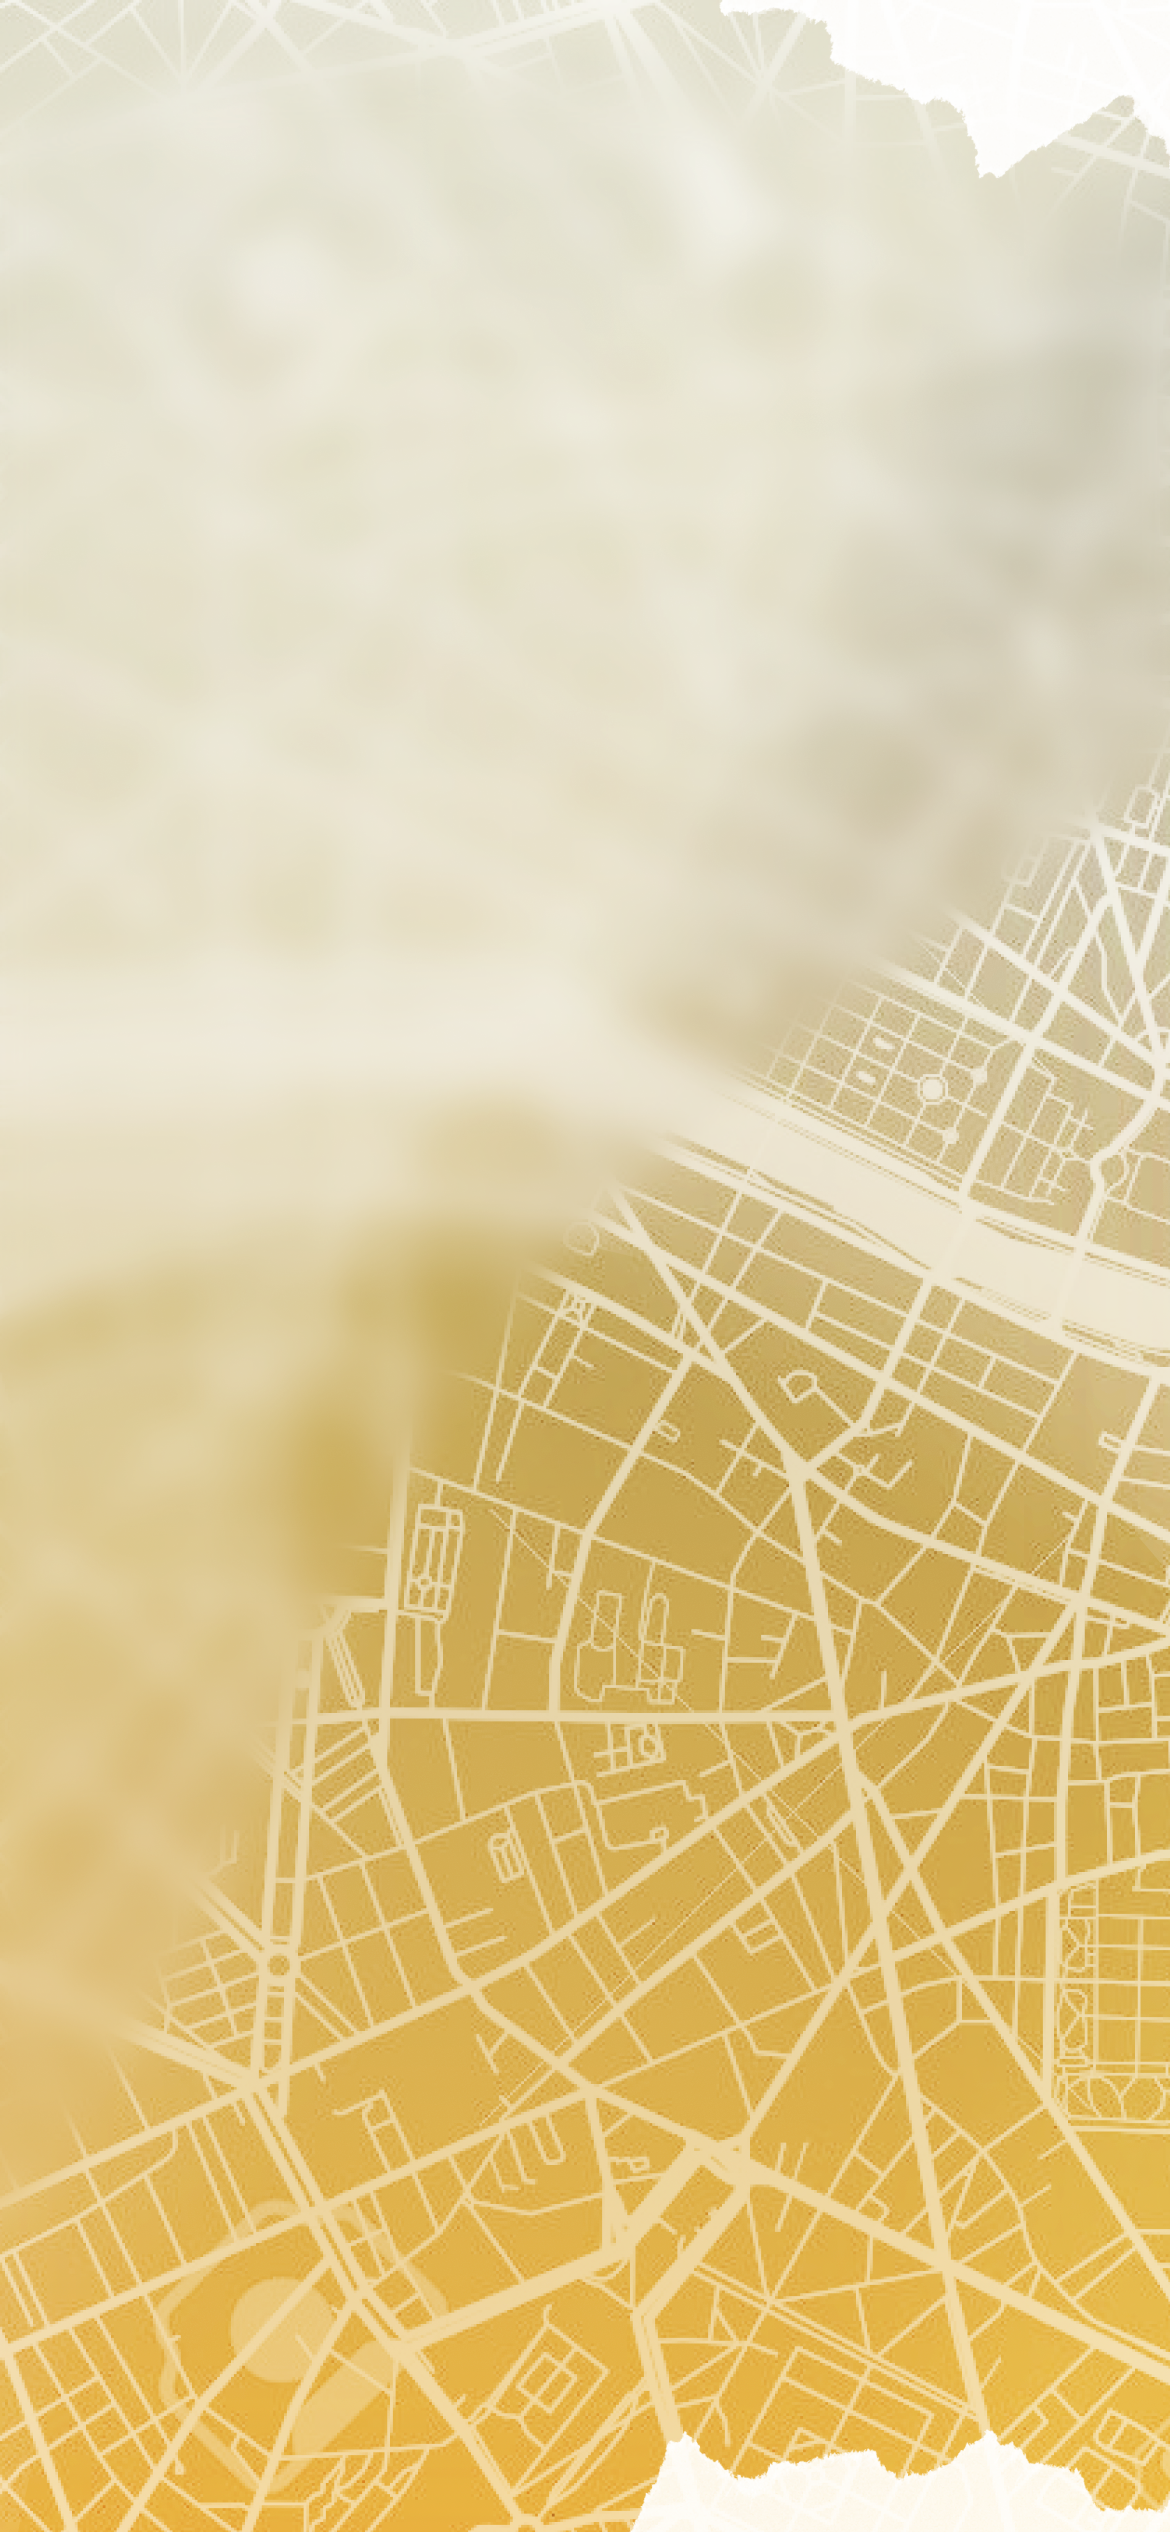
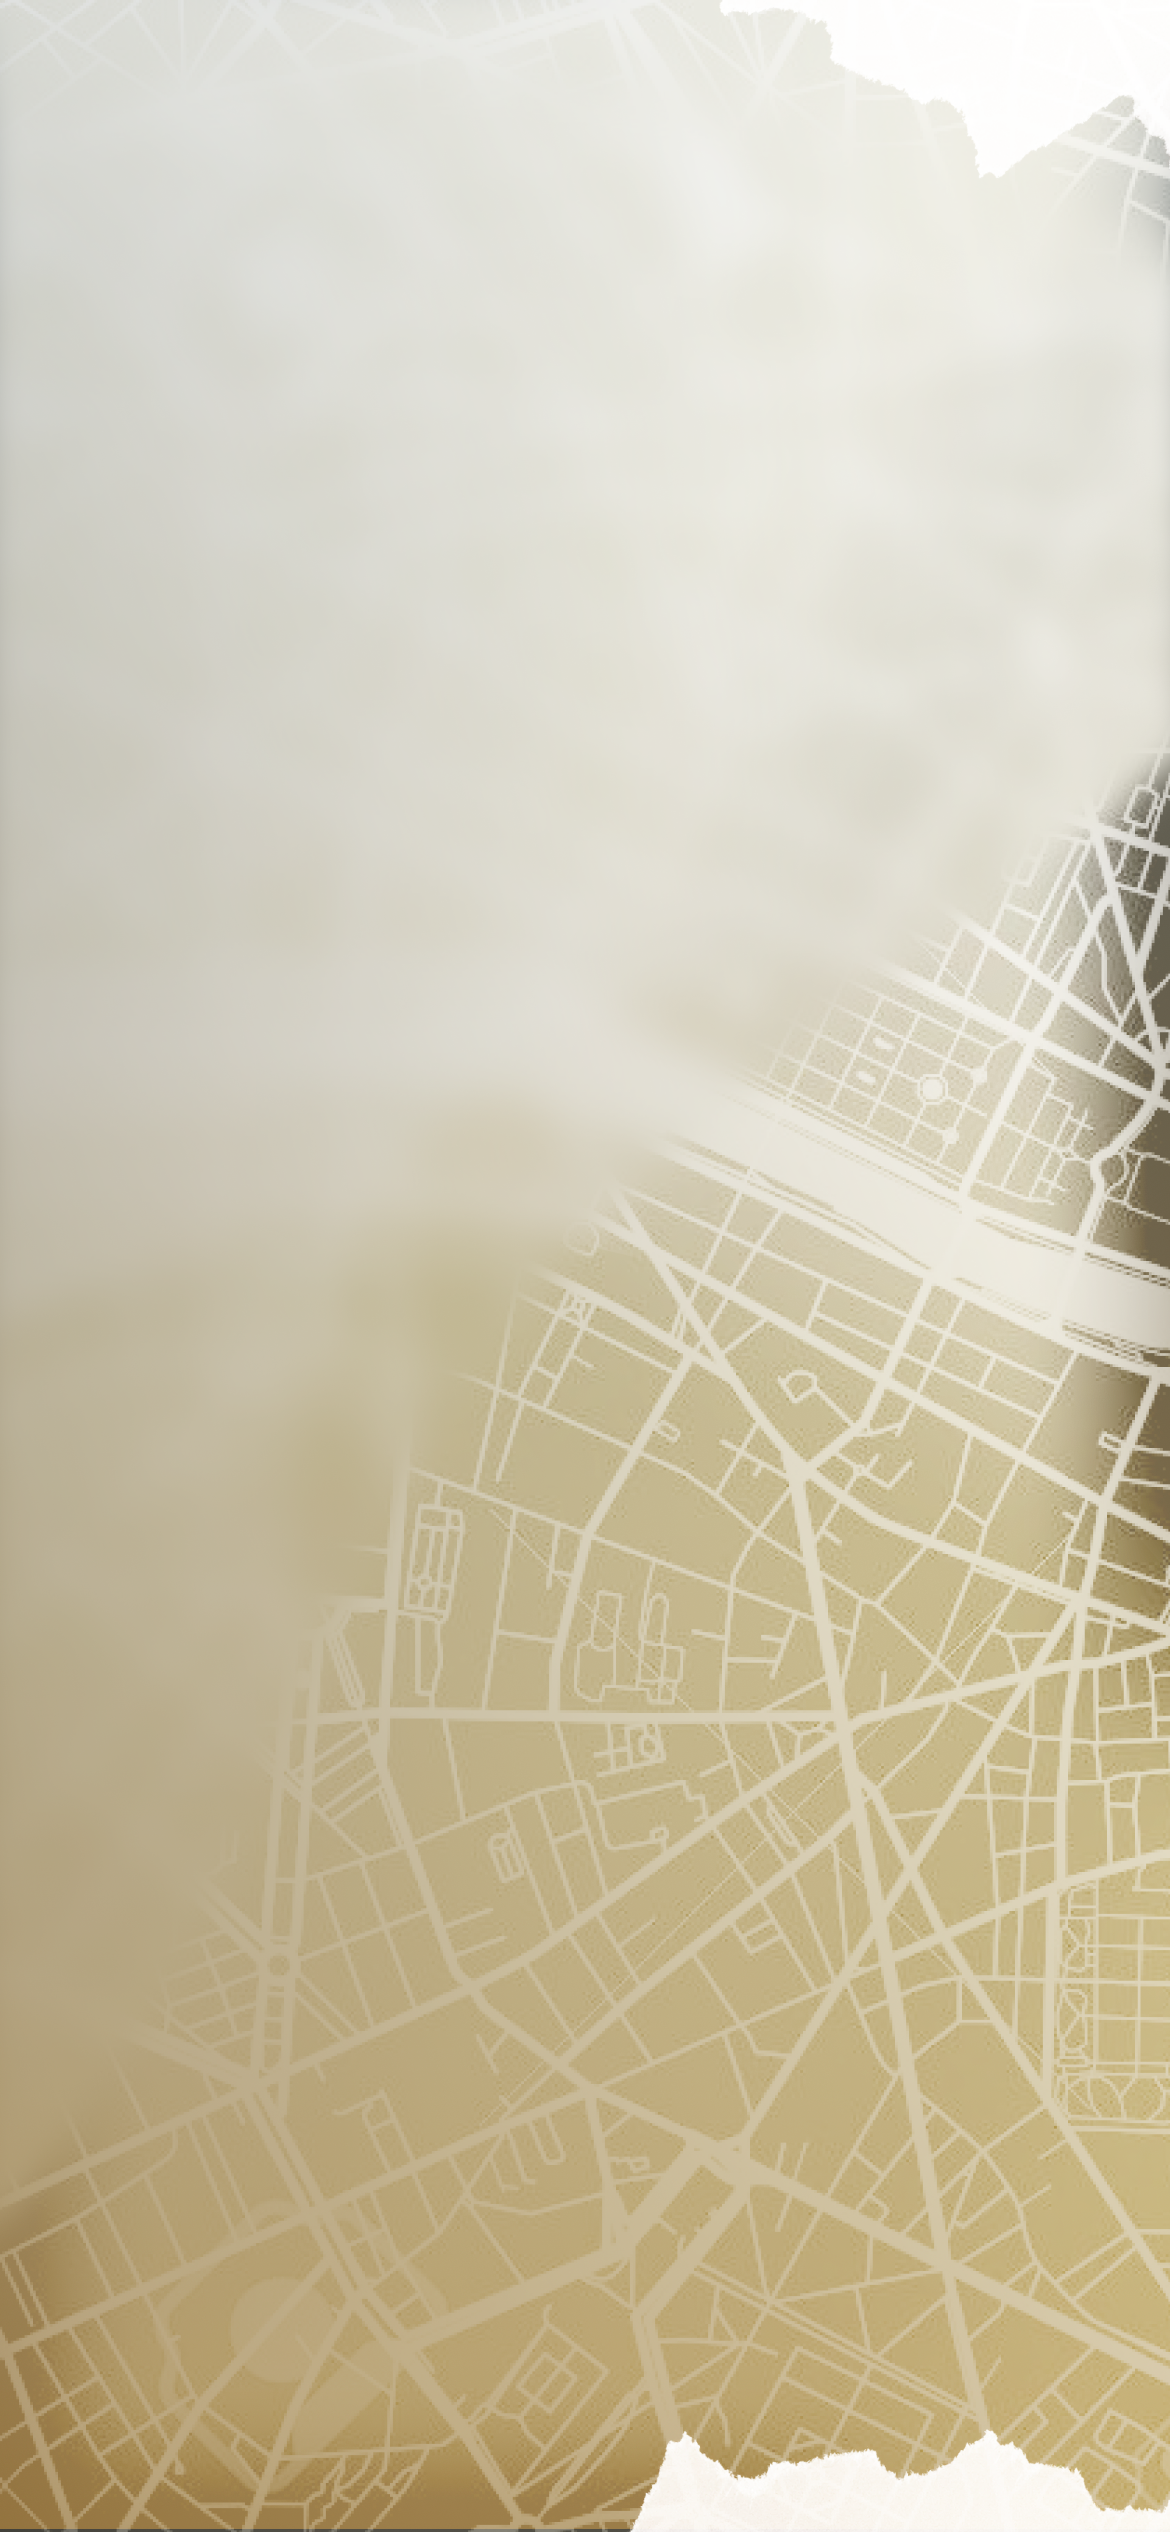
img home page

diff --git a/app/assets/stylesheets/pages/_home.scss b/app/assets/stylesheets/pages/_home.scss
@@ -4,7 +4,7 @@
 }
 
 .backscreen {
-  background-image: url(testaprealfond.png);
+  background-image: url(home.png);
   background-size: 100%;
   height: 100%;
   background-repeat: no-repeat;
